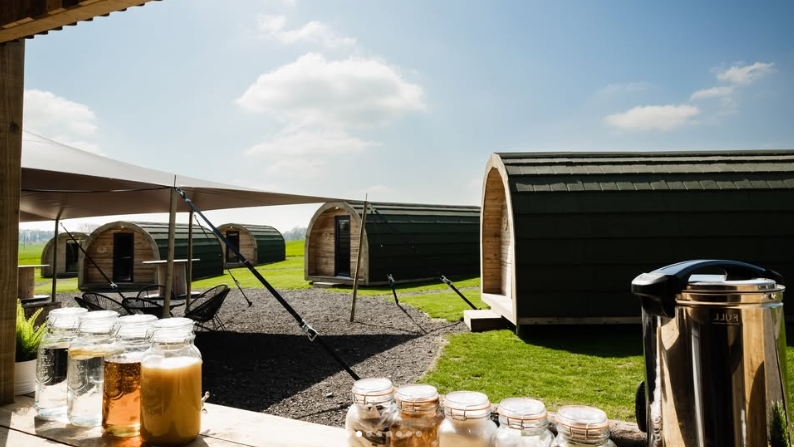
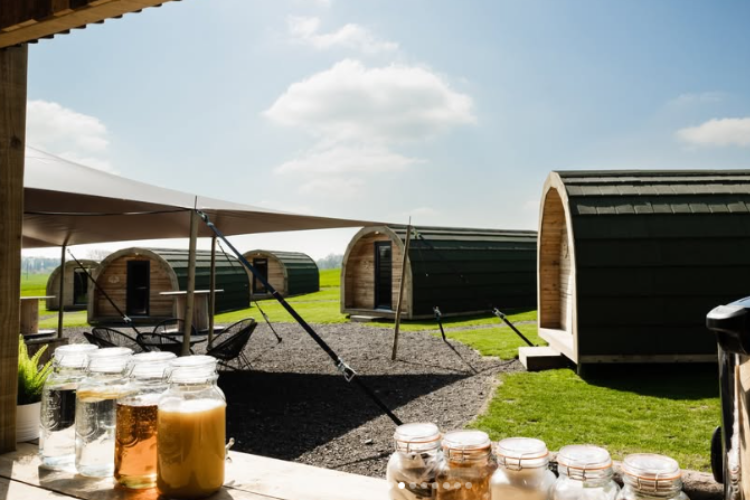
move to using next image optimisation and replacing images with standard size

diff --git a/frontend/app/(home)/_homepageContent.tsx b/frontend/app/(home)/_homepageContent.tsx
@@ -1,18 +1,13 @@
 "use client";
 
-import {
-  Text,
-  Space,
-  Divider,
-  Grid,
-  Box,
-  Center,
-  Image,
-  Flex,
-  Anchor,
-} from "@mantine/core";
+import { Text, Divider, Grid, Box, Center, Flex, Anchor } from "@mantine/core";
 import PageCard from "@/components/pagecard";
 import Countdown from "@/components/countdown";
+import Image from "next/image";
+import Us from "@/public/images/cam-and-laura.png";
+import Village from "@/public/images/village.png";
+import BreakfastTable from "@/public/images/breakfast-tables.png";
+import FAQ from "@/public/images/faq.png";
 
 export default function HomepageContent() {
   /* API call if we want to go back to fetching it from the server
@@ -50,11 +45,14 @@ export default function HomepageContent() {
         <Grid.Col span={{ base: 12, md: 5 }}>
           <Center>
             <Image
-              radius="sm"
-              src="images/cam-and-laura.png"
-              width="100%"
-              style={{ width: "100%", height: "auto", margin: "20px 0" }}
-              alt=""
+              src={Us}
+              alt="Cam and Laura dressed up fancy"
+              style={{
+                width: "100%",
+                height: "auto",
+                margin: "20px 0",
+                borderRadius: "10px",
+              }}
             />
           </Center>
         </Grid.Col>
@@ -137,7 +135,7 @@ export default function HomepageContent() {
       <Grid>
         <Grid.Col span={{ base: 12, md: 4 }}>
           <PageCard
-            imagePath="images/village.png"
+            image={Village}
             title="Accommodation"
             description="More detail for what is on this page"
             link="/accommodation"
@@ -145,7 +143,7 @@ export default function HomepageContent() {
         </Grid.Col>
         <Grid.Col span={{ base: 12, md: 4 }}>
           <PageCard
-            imagePath="images/breakfast-tables.png"
+            image={BreakfastTable}
             title="Timeline"
             description="More detail for what is on this page"
             link="/timeline"
@@ -153,7 +151,7 @@ export default function HomepageContent() {
         </Grid.Col>
         <Grid.Col span={{ base: 12, md: 4 }}>
           <PageCard
-            imagePath="images/faq.png"
+            image={FAQ}
             title="FAQs"
             description="More detail for what is on this page"
             link="/faqs"

diff --git a/frontend/components/overlaycard.tsx b/frontend/components/overlaycard.tsx
@@ -1,17 +1,19 @@
 "use client";
 
-import { Card, Text, Image, Box, Overlay } from "@mantine/core";
-import { useState, useRef } from "react";
+import { Card, Text, Box, Overlay } from "@mantine/core";
+import { StaticImport } from "next/dist/shared/lib/get-img-props";
+import { useState } from "react";
+import Image from "next/image";
 
 interface OverlayCardProps {
   cardKey: string;
-  imagePath: string;
+  image: StaticImport;
   overlay: string;
 }
 
 export default function OverlayCard({
   cardKey,
-  imagePath,
+  image,
   overlay,
 }: OverlayCardProps) {
   const [overlayVisible, setOverlayVisible] = useState<{
@@ -35,23 +37,26 @@ export default function OverlayCard({
         style={{
           position: "relative",
           cursor: "pointer",
-          backgroundColor: isHovered ? "rgba(0, 0, 0, 0.1)" : "", // Change background on hover
-          transition: "background-color 0.3s ease", // Smooth transition
+          backgroundColor: isHovered ? "rgba(0, 0, 0, 0.1)" : "",
+          transition: "background-color 0.3s ease",
+          borderRadius: "10px",
         }}
         onMouseEnter={() => setIsHovered(true)}
         onMouseLeave={() => setIsHovered(false)}
       >
         <Image
-          radius="sm"
-          src={imagePath}
-          height="auto"
-          width="100%"
-          fit="contain"
+          src={image}
+          aria-hidden
           alt=""
-          style={{ maxWidth: "100%", height: "auto" }}
+          style={{
+            maxWidth: "100%",
+            height: "auto",
+            alignSelf: "center",
+            borderRadius: "10px",
+          }}
         />
         {overlayVisible[cardKey] && (
-          <Overlay color="rgba(0, 0, 0, 0.6)" opacity={1} zIndex={5}>
+          <Overlay color="rgba(0, 0, 0, 0.6)" opacity={1} zIndex={0}>
             <Box
               style={{
                 position: "absolute",
@@ -60,9 +65,10 @@ export default function OverlayCard({
                 transform: "translate(-50%, -50%)",
                 color: "white",
                 textAlign: "center",
+                borderRadius: "10px",
               }}
             >
-              <Text style={{ padding: "1px" }}>{overlay}</Text>
+              <Text style={{ padding: "0" }}>{overlay}</Text>
             </Box>
           </Overlay>
         )}

diff --git a/frontend/app/timeline/_timelineContent.tsx b/frontend/app/timeline/_timelineContent.tsx
@@ -1,18 +1,6 @@
 "use client";
 
-import {
-  Title,
-  Text,
-  Timeline,
-  Space,
-  List,
-  Grid,
-  Image,
-  Card,
-  Overlay,
-  Box,
-  Divider,
-} from "@mantine/core";
+import { Title, Text, Timeline, Space, Grid, Divider } from "@mantine/core";
 import {
   IconHeart,
   IconPencilQuestion,
@@ -25,6 +13,9 @@ import {
   IconClockHeart,
 } from "@tabler/icons-react";
 import OverlayCard from "@/components/overlaycard";
+import PizzaOven from "@/public/images/pizza-oven.png";
+import GetReadyHut from "@/public/images/get-ready-hut.png";
+import BreakfastShack from "@/public/images/breakfast-shack.png";
 
 export default function TimelineContent() {
   return (
@@ -200,7 +191,7 @@ export default function TimelineContent() {
         <Grid.Col span={{ base: 12, md: 4 }}>
           <OverlayCard
             cardKey="pizzaOven"
-            imagePath="images/pizza-oven.png"
+            image={PizzaOven}
             overlay="At the pre-wedding village party we'll be serving
                     freshly made pizzas from our oven, hot and delicious!"
           />
@@ -208,7 +199,7 @@ export default function TimelineContent() {
         <Grid.Col span={{ base: 12, md: 4 }}>
           <OverlayCard
             cardKey="gettingReady"
-            imagePath="images/get-ready-hut.png"
+            image={GetReadyHut}
             overlay="The pods all have plenty of space but for something more
                     sociable you can get ready together in the makeup hut!"
           />
@@ -216,7 +207,7 @@ export default function TimelineContent() {
         <Grid.Col span={{ base: 12, md: 4 }}>
           <OverlayCard
             cardKey="breakfastShack"
-            imagePath="images/breakfast-shack.png"
+            image={BreakfastShack}
             overlay="Self-serve breakfast will be available for everyone staying
                     at the wedding village."
           />

diff --git a/frontend/components/pagecard.tsx b/frontend/components/pagecard.tsx
@@ -1,20 +1,25 @@
 "use client";
 
-import { Card, Text, Image, Center } from "@mantine/core";
+import { Card, Text, Center } from "@mantine/core";
+import { StaticImport } from "next/dist/shared/lib/get-img-props";
+import Image from "next/image";
+import { useState } from "react";
 
 interface PageCardProps {
-  imagePath: string;
+  image: StaticImport;
   title: string;
   description: string;
   link: string;
 }
 
 export default function PageCard({
-  imagePath,
+  image,
   title,
   description,
   link,
 }: PageCardProps) {
+  const [isHovered, setIsHovered] = useState(false);
+
   return (
     <Card
       shadow="xs"
@@ -27,25 +32,37 @@ export default function PageCard({
         flexDirection: "column",
         justifyContent: "space-between",
         height: "100%",
+        position: "relative",
+        cursor: "pointer",
+        backgroundColor: isHovered ? "rgba(0, 0, 0, 0.1)" : "",
+        transition: "background-color 0.3s ease",
+        borderRadius: "10px",
       }}
+      onMouseEnter={() => setIsHovered(true)}
+      onMouseLeave={() => setIsHovered(false)}
     >
       <Card.Section>
         <Center>
           <Image
             aria-hidden
             alt={title}
-            src={imagePath}
-            h={200}
-            w="auto"
-            fit="contain"
+            src={image}
+            style={{
+              width: "90%",
+              height: "auto",
+              alignSelf: "center",
+              borderRadius: "10px",
+            }}
           />
         </Center>
       </Card.Section>
       <div style={{ flex: "1" }}>
-        <Text fw={500} mt="md">
+        <Text fw={500} mt="md" style={{ padding: 0 }}>
           {title}
         </Text>
-        <Text c="dimmed">{description}</Text>
+        <Text c="dimmed" style={{ padding: 0 }}>
+          {description}
+        </Text>
       </div>
     </Card>
   );

diff --git a/frontend/app/accommodation/_accommodationContent.tsx b/frontend/app/accommodation/_accommodationContent.tsx
@@ -1,6 +1,9 @@
 "use client";
 
-import { Title, Text, Space, Grid, Image, Divider } from "@mantine/core";
+import { Title, Text, Space, Grid, Divider } from "@mantine/core";
+import Image from "next/image";
+import FullVillage from "@/public/images/full-village.png";
+import Cottages from "@/public/images/cottages.png";
 
 export default function AccommodationContent() {
   return (
@@ -109,13 +112,9 @@ export default function AccommodationContent() {
 
         <Grid.Col span={{ base: 12, md: 5 }}>
           <Image
-            radius="sm"
-            src="images/full-village.png"
-            height="auto"
-            width="100%"
-            fit="contain"
+            src={FullVillage}
             alt="Cottages"
-            style={{ maxWidth: "100%", height: "auto" }}
+            style={{ maxWidth: "100%", height: "auto", borderRadius: "10px" }}
           />
         </Grid.Col>
       </Grid>
@@ -144,13 +143,9 @@ export default function AccommodationContent() {
 
         <Grid.Col span={{ base: 12, md: 5 }}>
           <Image
-            radius="sm"
-            src="images/cottages.png"
-            height="auto"
-            width="100%"
-            fit="contain"
+            src={Cottages}
             alt="Cottages"
-            style={{ maxWidth: "100%", height: "auto" }}
+            style={{ maxWidth: "100%", height: "auto", borderRadius: "10px" }}
           />
         </Grid.Col>
       </Grid>

diff --git a/frontend/app/(home)/page.tsx b/frontend/app/(home)/page.tsx
@@ -1,11 +1,13 @@
-import { Container, Image, Space } from "@mantine/core";
 import HomepageContent from "./_homepageContent";
+import Image from "next/image";
+import MainBanner from "@/public/images/tipi-outside-arty-overlay.svg";
 
 export default function HomePage() {
   return (
     <>
       <h1>
         <span
+          // Visually hidden heading as the main heading is the banner image
           style={{
             position: "absolute",
             width: "1px",
@@ -19,20 +21,13 @@ export default function HomePage() {
         >
           Wedding Race
         </span>
-        <Container
-          style={{ width: "100%", padding: 0, margin: 0, maxWidth: "100%" }}
-        >
-          <Image
-            radius="sm"
-            src="images/tipi-outside-arty-overlay.svg"
-            alt="Welcome to the Race Wedding"
-            width="100%"
-            style={{ width: "100%", height: "auto" }}
-          />
-        </Container>
-      </h1>
 
-      <Space h="md" />
+        <Image
+          src={MainBanner}
+          alt="Welcome to the Race Wedding"
+          style={{ width: "100%", height: "auto", borderRadius: "10px" }}
+        />
+      </h1>
 
       <HomepageContent />
     </>
